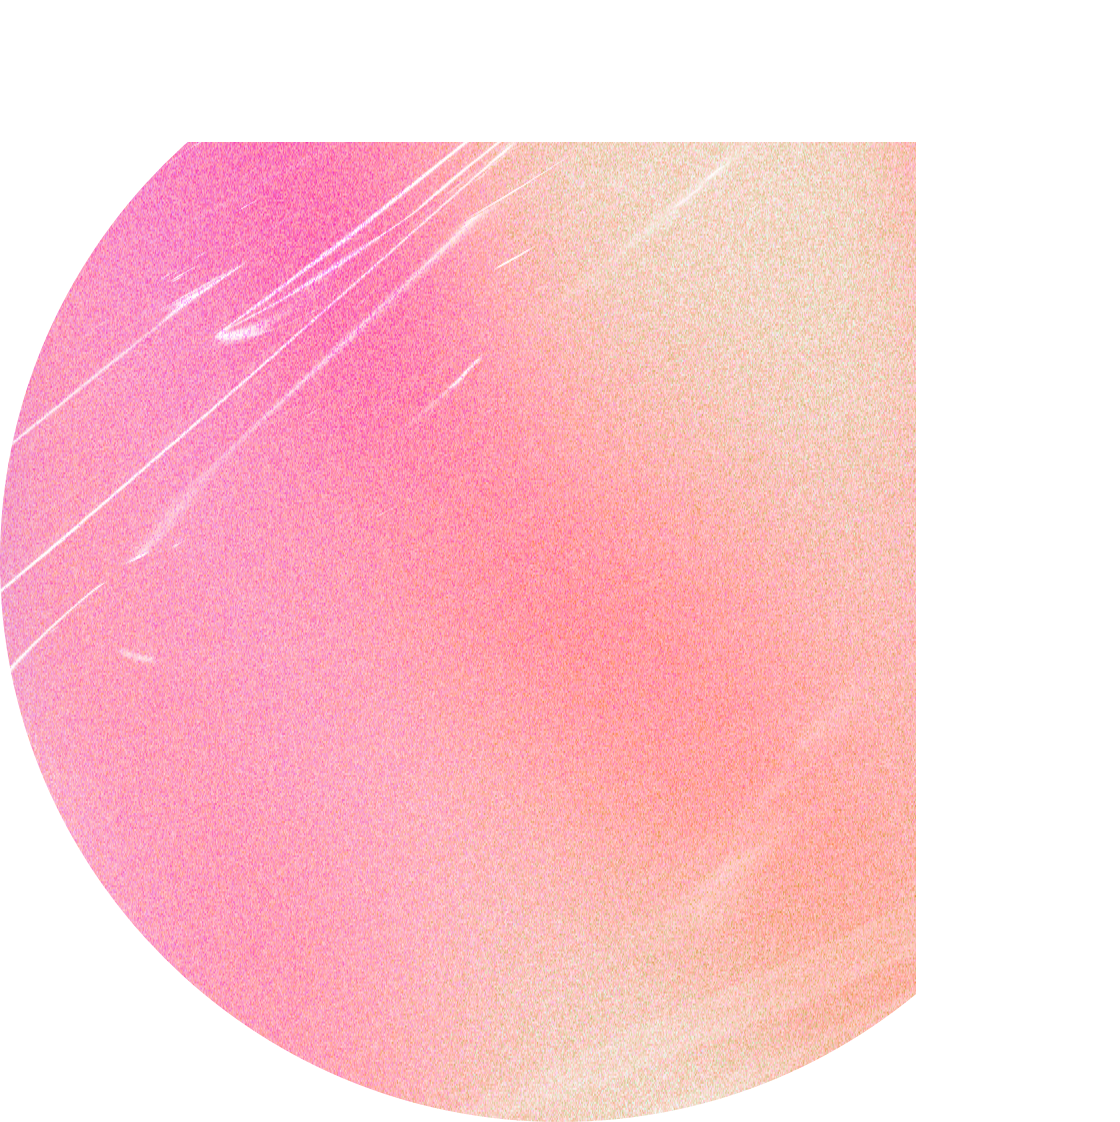
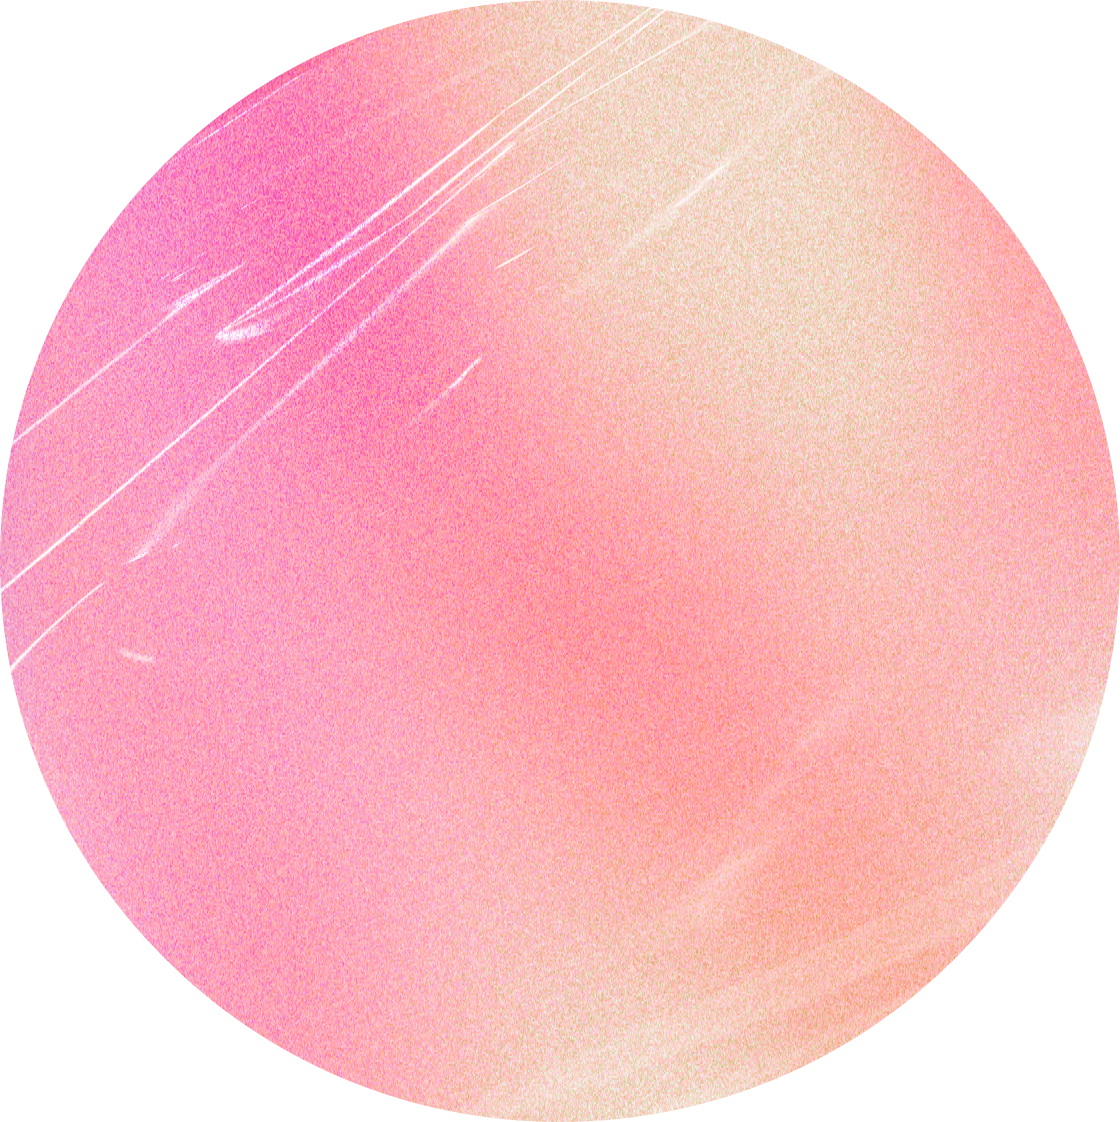
update bond page

Changed region(s): [[0.1562, 0.0, 1.0, 0.8734]]

diff --git a/src/views/Dashboard/index.tsx b/src/views/Dashboard/index.tsx
@@ -2,7 +2,7 @@ import { Grid, Typography, useMediaQuery } from "@material-ui/core";
 import { makeStyles } from "@material-ui/core/styles";
 import { useState } from "react";
 import { Paper } from "./style";
-
+import { useMatchBreakpoints } from "../../../packages/uikit/src/hooks";
 import { DataCell } from "./components/DataCell/DataCell";
 import {
   EightGraph,
@@ -35,7 +35,7 @@ const Dashboard = () => {
   // md, medium: 960px or larger
   // lg, large: 1280px or larger
   // xl, xlarge: 1920px or larger
-  const isSmallScreen = useMediaQuery("(max-width: 650px)");
+  const { isMobile } = useMatchBreakpoints();
   const classes = useStyles();
   const [activeTab, setActiveTab] = useState<string>("Overview");
   const clickTab = (tab: string) => {
@@ -46,7 +46,7 @@ const Dashboard = () => {
         <Typography variant="h4" style={{ fontWeight: 700, overflow: "hidden", color: "#fff" }}>
           Dashboard
         </Typography>
-        {isSmallScreen ? (
+        {isMobile ? (
           <div className="dashboard-tab">
             <div aria-hidden="true" className={`${activeTab === "Overview" && "active"}`} onClick={() => clickTab("Overview")}>
               Overview
@@ -66,7 +66,7 @@ const Dashboard = () => {
       <Grid container spacing={2}>
         {/* 13个指标 */}
         {/* 小屏幕的时候要根据tab切换来显示 */}
-        {!(isSmallScreen && activeTab !== "Overview") ? ( <Grid item lg={12} md={12} sm={12} xs={12}>
+        {!(isMobile && activeTab !== "Overview") ? ( <Grid item lg={12} md={12} sm={12} xs={12}>
           <Grid container spacing={2}>
             <Grid item lg={9} md={9} sm={12} xs={12}>
               <Grid container spacing={2}>
@@ -196,7 +196,7 @@ const Dashboard = () => {
         </Grid>) : null}
 
         {/* echarts图表 */}
-        {!(isSmallScreen && activeTab !== "Chart") ? (<>
+        {!(isMobile && activeTab !== "Chart") ? (<>
           <Grid item lg={12} md={12} sm={12} xs={12}>
           <Grid container spacing={2}>
             <Grid item lg={7} md={7} sm={12} xs={12}>

diff --git a/src/views/Bond/style.ts b/src/views/Bond/style.ts
@@ -3,7 +3,7 @@ import styled, { css } from 'styled-components'
 const HEADER_HEIGHT = 400;
 const MARGIN = 20;
 const NAV_HEIGHT = 56;
-const SCULPTURE_WRAP_HEIGHT = HEADER_HEIGHT + MARGIN + NAV_HEIGHT;
+const SCULPTURE_WRAP_HEIGHT = HEADER_HEIGHT + MARGIN + NAV_HEIGHT + 100;
 
 export const BondPageWrap = styled.div`
   margin: ${MARGIN}px;
@@ -19,35 +19,40 @@ export const BondHeaderWrap = styled.div`
 `
 export const BondSculptureWrap = styled.div`
   position: absolute;
-  right: 0px;
+  right: -140px;
   bottom: 0px;
-  height: ${HEADER_HEIGHT}px;
-  width: ${HEADER_HEIGHT}px;
-
-`
-export const BondSculptureWrapImg = styled.img`
-  width: 100%;
-  height: 100%;
+  height: ${SCULPTURE_WRAP_HEIGHT}px;
+  width: ${SCULPTURE_WRAP_HEIGHT}px;
+  background: url('/images/bond/bond-sculpture-wrap.png');
+  background-repeat: no-repeat;
+  background-size: cover;
 `
 export const BondSculptureGif = styled.img`
-  height: ${HEADER_HEIGHT}px;
-  width: ${HEADER_HEIGHT}px;
+  height: ${SCULPTURE_WRAP_HEIGHT}px;
+  width: ${SCULPTURE_WRAP_HEIGHT}px;
   position: absolute;
-  left: 0px;
-  bottom: 0px;
+  left: -100px;
+  bottom: -94px;
 `
 export const BondGearImg = styled.img`
-  width: 150px;
-  height: 150px;
+  width: 180px;
+  height: 180px;
   position: absolute;
   left: 250px;
-  bottom: -20px;
+  bottom: -50px;
   animation: gear 10s linear infinite;
   animation-duration: 10s;
 `
+export const BondBallImg = styled.img`
+  width: 50px;
+  height: 50px;
+  position: absolute;
+  left: -25px;
+  bottom: 300px;
+  animation: ball 3s ease-in-out infinite;
+`
 export const BondPageText = styled.div`
   max-width: 500px;
-  margin-left: 20px;
 `
 export const BondPageTitle = styled.div`
   width: 100%;
@@ -69,7 +74,6 @@ export const BondPageDes = styled.div`
 `
 
 export const OverviewCard = styled.div`
-  margin-left: 20px;
   border-radius: 16px;
   background: rgba(171, 182, 255, 0.05);
   border: 1px solid rgba(70, 96, 255, 0.32);

diff --git a/src/views/Bond/index.tsx b/src/views/Bond/index.tsx
@@ -4,8 +4,7 @@ import { Grid } from "@material-ui/core";
 import { useWeb3React } from '@web3-react/core'
 import { BondPageWrap, BondHeaderWrap, BondPageText, BondPageTitle, BondPageDes, OverviewCard, OverviewCardItem, OverviewCardItemTitle, 
   OverviewCardItemContent, Price, Percent, Icon, BondListItem, BondListItemHeader, BondListItemContent, ContentCell, CellTitle, CellText, 
-  TextColor, BondListItemBtn, ImgWrap, FromImg, ToImg, BondHeaderName, BondSculptureWrap, BondSculptureWrapImg,
-  BondSculptureGif, BondGearImg  } from './style'
+  TextColor, BondListItemBtn, ImgWrap, FromImg, ToImg, BondHeaderName, BondSculptureWrap, BondSculptureGif, BondGearImg, BondBallImg  } from './style'
 import bondDatasMock from './MockBondData'
 import BondModal from './components/BondModal'
 import SettingModal from './components/SettingModal'
@@ -38,9 +37,9 @@ const Bond: FC = () => {
   return (<BondPageWrap>
     <BondHeaderWrap>
       <BondSculptureWrap>
-        <BondSculptureWrapImg src="/images/bond/bond-sculpture-wrap.png" alt="" />
         <BondSculptureGif src="/images/bond/bond-sculpture.gif" alt="" />
         <BondGearImg src="/images/bond/gear.png" alt="" />
+        <BondBallImg src="/images/bond/ball.png" alt="" />
       </BondSculptureWrap>
       <BondPageText>
         <BondPageTitle>

diff --git a/src/pages/animation.scss b/src/pages/animation.scss
@@ -1,4 +1,3 @@
-// 渐变动画效果
 @keyframes gradient {
   0% {
       background-position: 0% 50%;
@@ -13,7 +12,6 @@
   }
 }
 
-// 打字机动画效果
 @keyframes typing {
   from {
     width: 0
@@ -26,7 +24,6 @@
   }
 }
 
-// 光晕动画
 @keyframes halo {
   0% {
     transform: rotate(0deg);
@@ -37,7 +34,6 @@
   }
 }
 
-// 齿轮动画
 @keyframes gear {
   0% {
     transform: rotate(0deg);
@@ -45,5 +41,17 @@
 
   100% {
     transform: rotate(360deg);
+  }
+}
+
+@keyframes ball {
+  0% {
+    transform: translateY(0px);
+  }
+  50% {
+      transform: translateY(-6px);
+  }
+  100% {
+      transform: translateY(0px);
   }
 }
